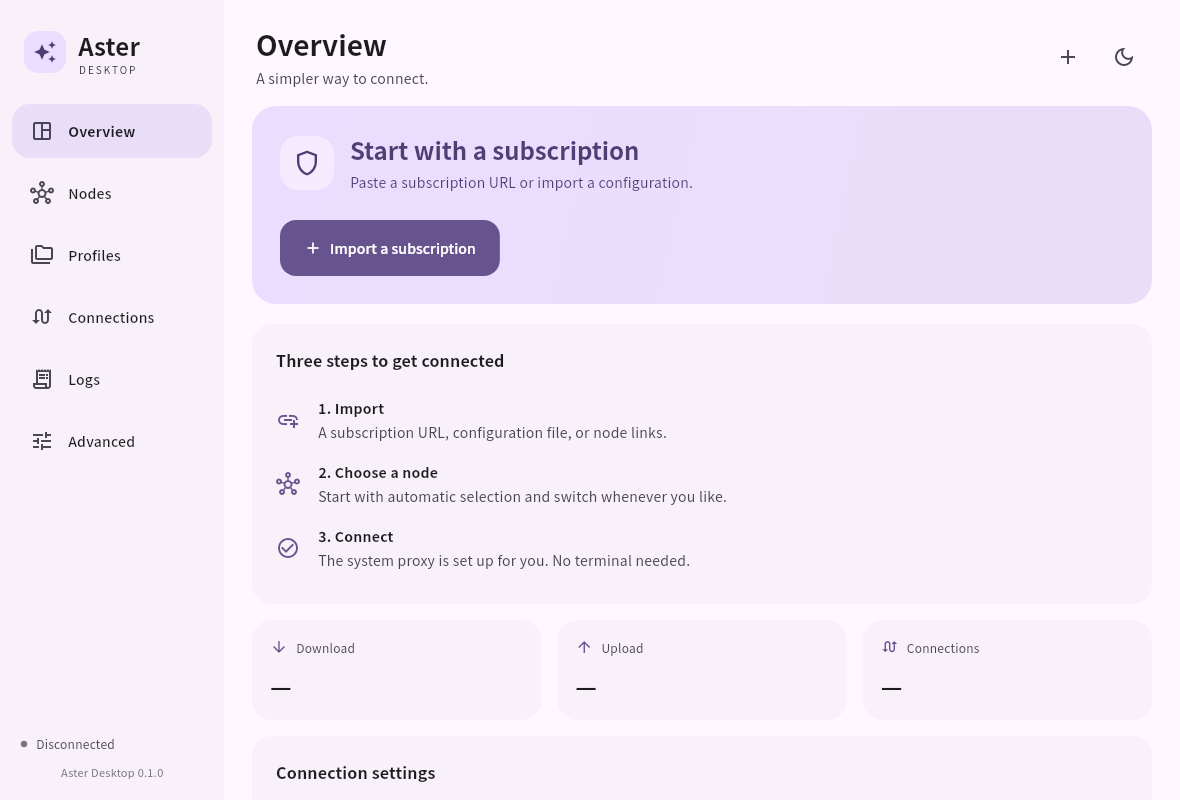
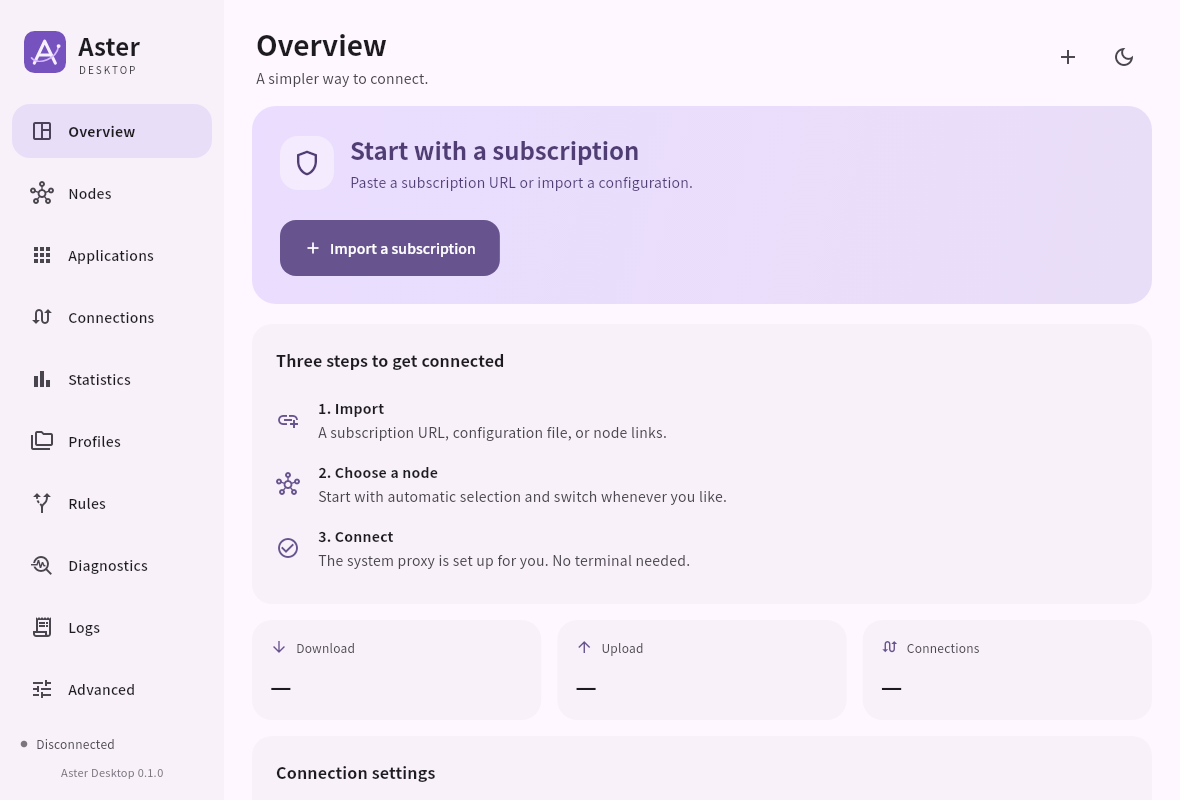
Review native visual baselines and record Windows verification [skip ci]

diff --git a/docs/TESTING.md b/docs/TESTING.md
@@ -2,9 +2,9 @@
 
 日期：2026-10-08。固定核心／轉換器提交維持 `a9a33503b39a03681bc52d9758907316a22df199`。
 
-新增訂閱预覽與過期防護、個別排程、節點／群組／provider 表單、跨更新桌面覆寫、規則停用與排序、多程式批次出口、連線彙整／欄位與規則建立、歷史流量及分層診斷。原創 Aster 圖示涵蓋 GUI、托盤、Windows 安裝器與 Mac App。
+新增訂閱預覽與過期防護、個別排程、節點／群組／provider 表單、跨更新桌面覆寫、規則停用與排序、多程式批次出口、連線彙整／欄位與規則建立、歷史流量及分層診斷。原創 Aster 圖示涵蓋 GUI、托盤、Windows 安裝器與 Mac App。
 
-本機 Flutter 靜態分析及元件測試、Go 真實固定核心測試已通過；最終打包與跨平台 CI 結果於完成後追加。測試使用獨立資料與 loopback，未變更使用者系統代理、TUN、DNS 或服務。新增回歸涵蓋訂閱失敗／過期、節點刪除引用驗證、批次交易、YAML 與 GUI metadata 一致性、流量重啟／重複取樣／清除／儲存、限制範圍的 DNS API，以及窄視窗放大字體操作。
+本機 Flutter analyze、36 項單元／元件測試通過（Mac 專用一項跳過）。Windows 真實固定核心完整 Go 測試通過；原生 GUI 匯入／代理／程式分流／萬行 YAML／停止流程通過。Windows release 編譯、安裝器 payload 校验及 9 項 PowerShell 5.1 安裝／回復測試通過，已確認 PE 安裝器含原創圖示。跨平台 CI 結果於完成後追加。測試使用獨立資料與 loopback，未變更使用者系統代理、TUN、DNS 或服務。新增回歸涵蓋訂閱失敗／過期、節點刪除引用驗證、批次交易、YAML 與 GUI metadata 一致性、流量重啟／重複取樣／清除／儲存、限制範圍的 DNS API，以及窄視窗放大字體操作。
 
 流量分類為抽樣，短連線可能遺漏；異常退出最多遺失約 20 秒。Mac 實機 TUN、系統代理、SMAppService 授權／拒絕、Gatekeeper 與睡眠喚醒仍待驗收，CI 不代替這些測試。使用者 Wi-Fi TUN 尚未重試，不宣稱已修復實際上網。
 

diff --git a/README.md b/README.md
@@ -4,7 +4,7 @@ Flutter / Material 3 桌面代理客戶端，依賴獨立 Aster Core。預設繁
 
 0.2.0 補齊日常操作：節點收藏／最近使用／類型與來源篩選、可調測速參數，表單管理節點、群組與兩種 provider。訂閱可編輯來源、複製成獨立設定、設定個別排程；手動更新先預覽變更，過期預覽不會覆蓋新設定。GUI 管理的節點、DNS、分流與停用規則會在訂閱更新後保留，完整 YAML 編輯仍可使用。
 
-新增獨立「應用程式」、「分流規則」、「流量統計」、「診斷」頁面。多選已安裝／正在執行的程式，可批次指定群組、節點、直連或封鎖；連線明細可直接建立規則。连線頁支援程式／出口彙整、自訂欄位順序與寬度、速度／持續時間，以及右鍵複製。每天的核心總流量在本機保存 365 天，可查看今日／7 日／30 日／一年並匯出 CSV；程式及出口分類是每 5 秒取樣，短連線可能未被記錄，不作精確帳務用途。正常退出保存最後資料，異常退出可能遺失約 20 秒。
+新增獨立「應用程式」、「分流規則」、「流量統計」、「診斷」頁面。多選已安裝／正在執行的程式，可批次指定群組、節點、直連或封鎖；連線明細可直接建立規則。連線頁支援程式／出口彙整、自訂欄位順序與寬度、速度／持續時間，以及右鍵複製。每天的核心總流量在本機保存 365 天，可查看今日／7 日／30 日／一年並匯出 CSV；程式及出口分類是每 5 秒取樣，短連線可能未被記錄，不作精確帳務用途。正常退出保存最後資料，異常退出可能遺失約 20 秒。
 
 診斷頁分開檢查核心、服務、出口介面、系統 DNS、系統路由與本機代理 HTTPS；本機代理通過不代表 TUN 路由已正常。另提供核心 DNS 查詢與快取清理。應用程式、托盤、安裝器與 Mac 圖示改為 Aster 原創軌道 A 標誌，介面使用 Material 圖示。
 
